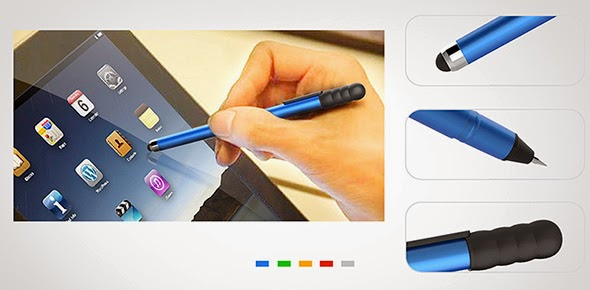
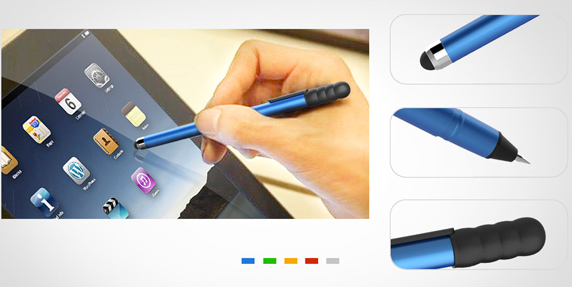
update

diff --git a/assets/scss/main.scss b/assets/scss/main.scss
@@ -152,7 +152,7 @@ footer {
       right: 0;
     }
     .navbar-collapse {
-      z-index: 99;
+      // z-index: 99;
       width: 100%;
       margin-top: 50px;
       background-color: whitesmoke;
@@ -162,7 +162,7 @@ footer {
     }
   }
   .slider {
-    z-index: -1;
+    // z-index: -1;
     padding: 30px;
   }
   .about {

diff --git a/_layouts/post.html b/_layouts/post.html
@@ -7,6 +7,7 @@ extra_css:
     <div class="post">
       <h1 class="post-title">{{ page.title }}</h1>
       {% if page.subtitle %}
+      <br />
       <h4 class="post-sub-title">{{ page.subtitle }}</h4>
       {% endif %}
       <span class="post-date">{{ page.date | date_to_string }}</span>

diff --git a/stylesheets/main.css b/stylesheets/main.css
@@ -140,7 +140,6 @@ footer {
     right: 0;
   }
   header .navbar-collapse {
-    z-index: 99;
     width: 100%;
     margin-top: 50px;
     background-color: whitesmoke;
@@ -150,7 +149,6 @@ footer {
   }
 
   .slider {
-    z-index: -1;
     padding: 30px;
   }
 

diff --git a/assets/scss/post.scss b/assets/scss/post.scss
@@ -381,7 +381,7 @@ a.pagination-item:hover {
 }
 
 .comments-2 {
-  height: 220px;
+  height: 240px;
 }
 
 ul.pen-1 {

diff --git a/stylesheets/post.css b/stylesheets/post.css
@@ -392,7 +392,7 @@ a.pagination-item:hover {
 }
 
 .comments-2 {
-  height: 220px;
+  height: 240px;
 }
 
 ul.pen-1 {

diff --git a/_posts/2014-06-29-metalux-stylus-all-for-your-choice.md b/_posts/2014-06-29-metalux-stylus-all-for-your-choice.md
@@ -7,24 +7,31 @@ categories: news
 
 It’s nothing new about stylus pen, but what we are aiming to do is better design, not to sacrifice the good look to the function. Thus, we chose to place the screen touch device on the opposite of the refill. Animal is totally a new creation and the other two are based on the Habilis and Linellae. Smart, classic and new gel pen, all for your choice!
 
-![metalux-1](/images/posts/metalux-stylus-1.jpg)
+<div class="comments-2">
+    <ul class="pen-2">
+        <h2>JC520</h2>
+        <p>ANIMAL</p>
+        <p>New Stylus, stands out.</p>
+        <p>Cute? Elegant? You name it.</p>
+    </ul>
+    <p class="pen-2-img"><img src="/images/posts/metalux-stylus-1.jpg" alt="erasion-2" /></p>
+</div>
 
-Animal JC520---the new stylus ball pen in caterpillar shape.
-The black rubber at the bottom of the pen functions as the screen touch device.     
-Smooth and slim barrel guarantee a pleasant grip.
-Germany ink, environmentally friendly material.
+<div class="comments-2">
+    <ul class="pen-2">
+        <h2>JC505</h2>
+        <p>LINELLAE STYLUS</p>
+        <p>Classic, bestseller.</p>
+    </ul>
+    <p class="pen-2-img"><img src="/images/posts/metalux-stylus-2.jpg" alt="erasion-2" /></p>
+</div>
 
-![metalux-2](/images/posts/metalux-stylus-2.jpg)
-
-Linellae Stylus JC505--- New retractable stylus based on bestseller JC505.
-The black rubber at the top of the cap serves as the screen touch device.
-Smooth line and comfortable grip.
-JC Solution: best sold in set within 5-6 pcs.
-
-![metalux-3](/images/posts/metalux-stylus-3.jpg)
-
-Habilis stylus JC417---this new twist action screen touch pen is only 11cm in length.
-The black rubber at the bottom of the pen functions as the screen touch device.
-Smart look, portable, only 11cm in length.
-Metal ring and clip.
+<div class="comments-2">
+    <ul class="pen-2">
+        <h2>JC417</h2>
+        <p>HABILIS STYLUS</p>
+        <p>Very smart, portable.</p>
+    </ul>
+    <p class="pen-2-img"><img src="/images/posts/metalux-stylus-3.jpg" alt="erasion-2" /></p>
+</div>
 

diff --git a/_posts/2014-07-01-erasion-revolutionary-erasable-ballpoint-pen.md b/_posts/2014-07-01-erasion-revolutionary-erasable-ballpoint-pen.md
@@ -21,7 +21,6 @@ Jc smells a growing market for erasable pen, we started to develop our Erasion l
 </div>
 
 <div class="comments-2">
-
     <ul class="pen-2">
       <li>This new styling is based on the bestseller Fingers, therefore a experienced manufacturing process is guaranteed.</li>
       <li>Six gestures avaliable.</li>
